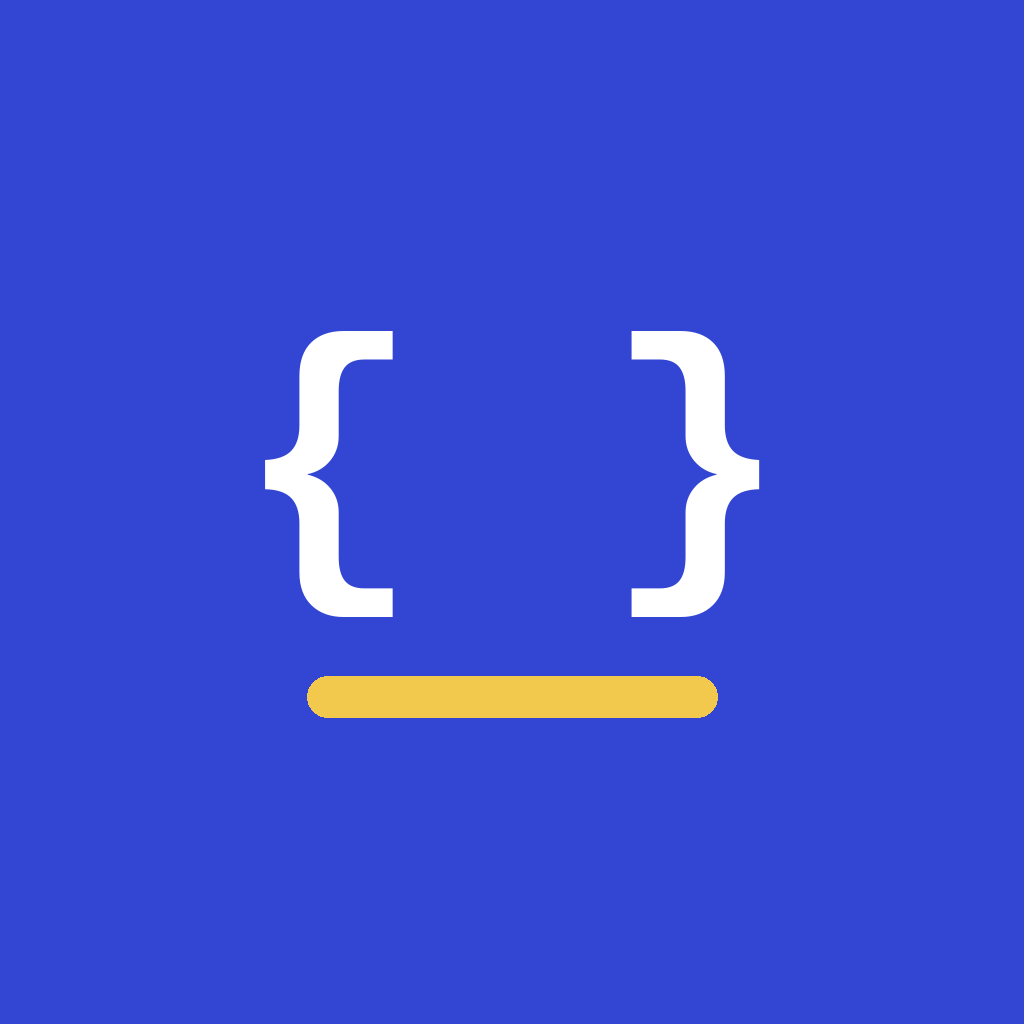
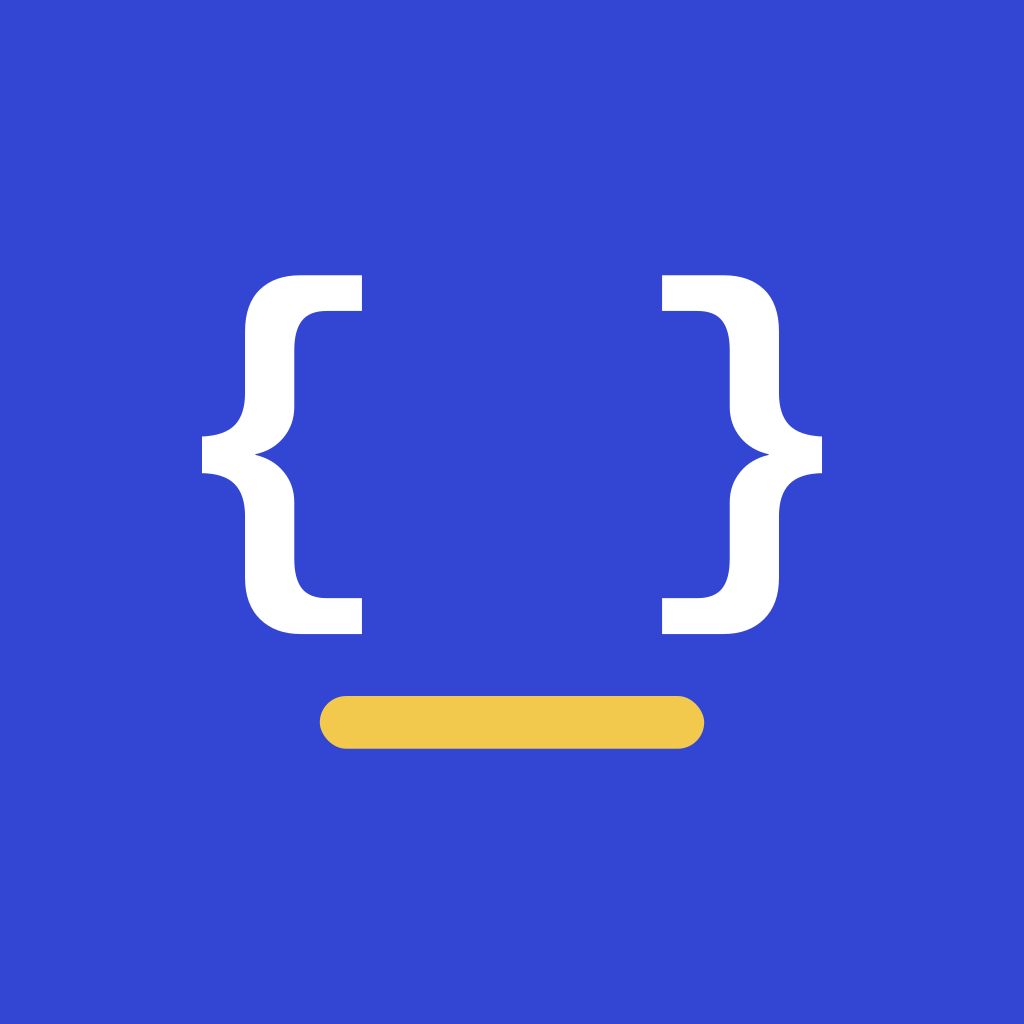
Add files via upload

Changed region(s): [[0.5938, 0.25, 0.8125, 0.625], [0.1875, 0.25, 0.4062, 0.625], [0.2812, 0.6562, 0.7188, 0.75]]

diff --git a/sw.js b/sw.js
@@ -1,7 +1,7 @@
 // DevHub service worker: offline app shell, never caches GitHub API calls.
-const CACHE = 'devhub-v4';
+const CACHE = 'devhub-v5';
 const SHELL = ['./', 'index.html', 'styles.css', 'app.js', 'manifest.webmanifest',
-  'icons/icon.svg', 'icons/icon-192.png', 'icons/icon-512.png', 'seed/links.json', 'config.js', 'tasks.js', 'offline-db.js', 'worker.js', 'vendor/sql-wasm.js', 'vendor/sql-wasm.wasm',
+  'favicon.ico', 'icons/icon.svg', 'icons/favicon-32.png', 'icons/apple-touch-icon.png', 'icons/icon-192.png', 'icons/icon-512.png', 'icons/icon-maskable-192.png', 'icons/icon-maskable-512.png', 'seed/links.json', 'config.js', 'tasks.js', 'offline-db.js', 'worker.js', 'vendor/sql-wasm.js', 'vendor/sql-wasm.wasm',
   'vendor/papaparse.min.js', 'vendor/xlsx.full.min.js', 'vendor/fxp.min.js', 'vendor/js-yaml.min.js', 'vendor/beautifier.min.js', 'vendor/sql-formatter.min.js'];
 
 self.addEventListener('install', e => {

diff --git a/index.html b/index.html
@@ -11,8 +11,10 @@
   <meta name="apple-mobile-web-app-title" content="DevHub">
   <meta name="format-detection" content="telephone=no">
   <link rel="manifest" href="manifest.webmanifest">
+  <link rel="icon" href="favicon.ico" sizes="48x48">
   <link rel="icon" href="icons/icon.svg" type="image/svg+xml">
-  <link rel="apple-touch-icon" href="icons/icon-192.png">
+  <link rel="icon" href="icons/favicon-32.png" type="image/png" sizes="32x32">
+  <link rel="apple-touch-icon" href="icons/apple-touch-icon.png">
   <link rel="preconnect" href="https://fonts.googleapis.com">
   <link rel="preconnect" href="https://fonts.gstatic.com" crossorigin>
   <link href="https://fonts.googleapis.com/css2?family=Instrument+Sans:wght@400;500;600;700&family=JetBrains+Mono:wght@400;600&display=swap" rel="stylesheet">

diff --git a/scripts/make-icons.py b/scripts/make-icons.py
@@ -1,0 +1,126 @@
+#!/usr/bin/env python3
+"""Generate every DevHub icon from one design.
+
+Outputs
+  icons/            favicon.ico, icon.svg, icon-192/512.png, icon-maskable-192/512.png,
+                    apple-touch-icon.png, icon-1024.png
+  favicon.ico       copy at the site root (browsers request /favicon.ico automatically)
+  android-res/      launcher icons (all densities, adaptive + legacy + round) and splash screens
+
+Usage:  pip install fonttools cairosvg   then   python3 scripts/make-icons.py
+Change BLUE / YELLOW / WHITE below to restyle everything at once.
+"""
+import io, os, shutil
+from fontTools.ttLib import TTFont
+from fontTools.pens.svgPathPen import SVGPathPen
+from fontTools.pens.boundsPen import BoundsPen
+import cairosvg
+from PIL import Image
+
+ROOT = os.path.dirname(os.path.dirname(os.path.abspath(__file__)))
+BLUE, YELLOW, WHITE = '#3346D3', '#F2C94C', '#FFFFFF'
+MONO = next(p for p in ['/usr/share/fonts/truetype/liberation/LiberationMono-Bold.ttf', '/usr/share/fonts/truetype/dejavu/DejaVuSansMono-Bold.ttf'] if os.path.exists(p))
+SANS = next(p for p in ['/usr/share/fonts/truetype/liberation/LiberationSans-Bold.ttf', '/usr/share/fonts/truetype/dejavu/DejaVuSans-Bold.ttf'] if os.path.exists(p))
+
+def glyphs(font_path, text):
+    """Outline paths for `text` laid out on one line, in font units (y up)."""
+    f = TTFont(font_path); gs = f.getGlyphSet(); cmap = f.getBestCmap()
+    x, parts, bounds = 0, [], [1e9, 1e9, -1e9, -1e9]
+    for ch in text:
+        g = gs[cmap[ord(ch)]]
+        if not ch.isspace():
+            pen = SVGPathPen(gs); g.draw(pen); bp = BoundsPen(gs); g.draw(bp)
+            if bp.bounds:
+                b = bp.bounds; parts.append((x, pen.getCommands()))
+                bounds = [min(bounds[0], x + b[0]), min(bounds[1], b[1]), max(bounds[2], x + b[2]), max(bounds[3], b[3])]
+        x += g.width
+    return parts, bounds
+
+BRACES = glyphs(MONO, '{ }')
+WORD = glyphs(SANS, 'DevHub')
+
+def text_group(g, cx, top, width, fill):
+    """Place glyph outlines so their box is `width` wide, centred on cx, starting at y=top."""
+    parts, (x0, y0, x1, y1) = g
+    s = width / (x1 - x0); h = (y1 - y0) * s
+    tx = cx - width / 2 - x0 * s; ty = top + y1 * s
+    paths = ''.join(f'<path transform="translate({px},0)" d="{d}"/>' for px, d in parts)
+    return f'<g fill="{fill}" transform="translate({tx:.2f},{ty:.2f}) scale({s:.5f},{-s:.5f})">{paths}</g>', h
+
+def mark(cx, cy, width):
+    """The DevHub mark: white { } with a yellow bar underneath, centred on (cx, cy)."""
+    _, (x0, y0, x1, y1) = BRACES
+    bh = (y1 - y0) * width / (x1 - x0)
+    gap, bar_h, bar_w = width * 0.10, width * 0.085, width * 0.62
+    total = bh + gap + bar_h
+    top = cy - total / 2
+    braces, _ = text_group(BRACES, cx, top, width, WHITE)
+    by = top + bh + gap
+    bar = f'<rect x="{cx - bar_w / 2:.2f}" y="{by:.2f}" width="{bar_w:.2f}" height="{bar_h:.2f}" rx="{bar_h / 2:.2f}" fill="{YELLOW}"/>'
+    return braces + bar
+
+def svg(w, h, body):
+    return f'<svg xmlns="http://www.w3.org/2000/svg" viewBox="0 0 {w} {h}" width="{w}" height="{h}">{body}</svg>'
+
+# Icon variants on a 1024 canvas
+def icon_rounded():  # regular app icon, transparent corners
+    return svg(1024, 1024, f'<rect width="1024" height="1024" rx="228" fill="{BLUE}"/>' + mark(512, 512, 640))
+def icon_full(mark_w=600):  # full-bleed square (maskable / iOS / store); mark kept in the safe zone
+    return svg(1024, 1024, f'<rect width="1024" height="1024" fill="{BLUE}"/>' + mark(512, 512, mark_w))
+def icon_round():
+    return svg(1024, 1024, f'<circle cx="512" cy="512" r="512" fill="{BLUE}"/>' + mark(512, 512, 600))
+def adaptive_fg():  # 108dp canvas; launchers show the middle 72dp, the safe zone is 66dp
+    return svg(1024, 1024, mark(512, 512, 470))
+def tiny():  # favicon at 16–48 px: bigger mark so it stays legible
+    return svg(1024, 1024, f'<rect width="1024" height="1024" rx="200" fill="{BLUE}"/>' + mark(512, 512, 800))
+def splash(w, h):
+    s = min(w, h); mw = s * 0.34
+    m = mark(w / 2, h / 2 - s * 0.06, mw)
+    word, wh = text_group(WORD, w / 2, h / 2 + s * 0.14, s * 0.30, WHITE)
+    return svg(w, h, f'<rect width="{w}" height="{h}" fill="{BLUE}"/>' + m + word)
+
+def png(svg_text, size, path=None):
+    w, h = size if isinstance(size, tuple) else (size, size)
+    data = cairosvg.svg2png(bytestring=svg_text.encode(), output_width=w, output_height=h)
+    if path:
+        os.makedirs(os.path.dirname(path), exist_ok=True)
+        open(path, 'wb').write(data)
+    return Image.open(io.BytesIO(data))
+
+def main():
+    icons = os.path.join(ROOT, 'icons'); os.makedirs(icons, exist_ok=True)
+    # ---- web ----
+    open(os.path.join(icons, 'icon.svg'), 'w').write(icon_rounded())
+    for s in (192, 512): png(icon_rounded(), s, f'{icons}/icon-{s}.png')
+    for s in (192, 512): png(icon_full(560), s, f'{icons}/icon-maskable-{s}.png')
+    png(icon_full(620), 180, f'{icons}/apple-touch-icon.png')
+    png(icon_full(620), 1024, f'{icons}/icon-1024.png')
+    sizes = [16, 32, 48]
+    frames = [png(tiny(), s).convert('RGBA') for s in sizes]
+    frames[-1].save(f'{icons}/favicon.ico', sizes=[(s, s) for s in sizes], append_images=frames[:-1])
+    png(tiny(), 32, f'{icons}/favicon-32.png')
+    shutil.copy(f'{icons}/favicon.ico', os.path.join(ROOT, 'favicon.ico'))
+    # ---- android launcher icons ----
+    res = os.path.join(ROOT, 'android-res')
+    dens = {'mdpi': 1, 'hdpi': 1.5, 'xhdpi': 2, 'xxhdpi': 3, 'xxxhdpi': 4}
+    for d, k in dens.items():
+        png(adaptive_fg(), int(108 * k), f'{res}/mipmap-{d}/ic_launcher_foreground.png')
+        png(icon_rounded(), int(48 * k), f'{res}/mipmap-{d}/ic_launcher.png')
+        png(icon_round(), int(48 * k), f'{res}/mipmap-{d}/ic_launcher_round.png')
+    os.makedirs(f'{res}/mipmap-anydpi-v26', exist_ok=True)
+    adaptive = ('<?xml version="1.0" encoding="utf-8"?>\n<adaptive-icon xmlns:android="http://schemas.android.com/apk/res/android">\n'
+                '    <background android:drawable="@color/ic_launcher_background"/>\n'
+                '    <foreground android:drawable="@mipmap/ic_launcher_foreground"/>\n</adaptive-icon>\n')
+    for n in ('ic_launcher', 'ic_launcher_round'): open(f'{res}/mipmap-anydpi-v26/{n}.xml', 'w').write(adaptive)
+    os.makedirs(f'{res}/values', exist_ok=True)
+    open(f'{res}/values/ic_launcher_background.xml', 'w').write(f'<?xml version="1.0" encoding="utf-8"?>\n<resources>\n    <color name="ic_launcher_background">{BLUE}</color>\n</resources>\n')
+    # ---- android splash screens (same sizes as Capacitor's template) ----
+    port = {'mdpi': (320, 480), 'hdpi': (480, 800), 'xhdpi': (720, 1280), 'xxhdpi': (960, 1600), 'xxxhdpi': (1280, 1920)}
+    for d, (w, h) in port.items():
+        png(splash(w, h), (w, h), f'{res}/drawable-port-{d}/splash.png')
+        png(splash(h, w), (h, w), f'{res}/drawable-land-{d}/splash.png')
+    png(splash(480, 320), (480, 320), f'{res}/drawable/splash.png')
+    print('Icons written to icons/, favicon.ico and android-res/')
+
+if __name__ == '__main__':
+    main()

diff --git a/README.md b/README.md
@@ -158,6 +158,28 @@ Pages can host the front end only; accounts still go through Render.
 2. On Render, set `CORS_ORIGINS=https://<you>.github.io`.
 3. In the **app repo**, go to Settings → Pages → Source: **GitHub Actions**.
 
+## Icons
+
+Every icon comes from one design (a white `{ }` with a yellow bar on DevHub blue):
+
+| Where | Files |
+|---|---|
+| Browser tab | `favicon.ico`, `icons/icon.svg`, `icons/favicon-32.png` |
+| iPhone/iPad home screen | `icons/apple-touch-icon.png` |
+| Installed web app (PWA) | `icons/icon-192/512.png`, `icons/icon-maskable-192/512.png` (via `manifest.webmanifest`) |
+| Android app icon | `android-res/mipmap-*/` (adaptive, legacy and round) |
+| Android launch screen | `android-res/drawable*/splash.png`, plus a blue Android 12+ launch screen |
+
+The APK workflow copies `android-res/` over Capacitor's defaults, so the app never shows the Capacitor logo.
+
+To change the design or colours, edit `scripts/make-icons.py` and run:
+
+```bash
+pip install fonttools cairosvg && python3 scripts/make-icons.py
+```
+
+Then commit the updated `icons/`, `favicon.ico` and `android-res/`.
+
 ## Run locally
 
 ```bash
